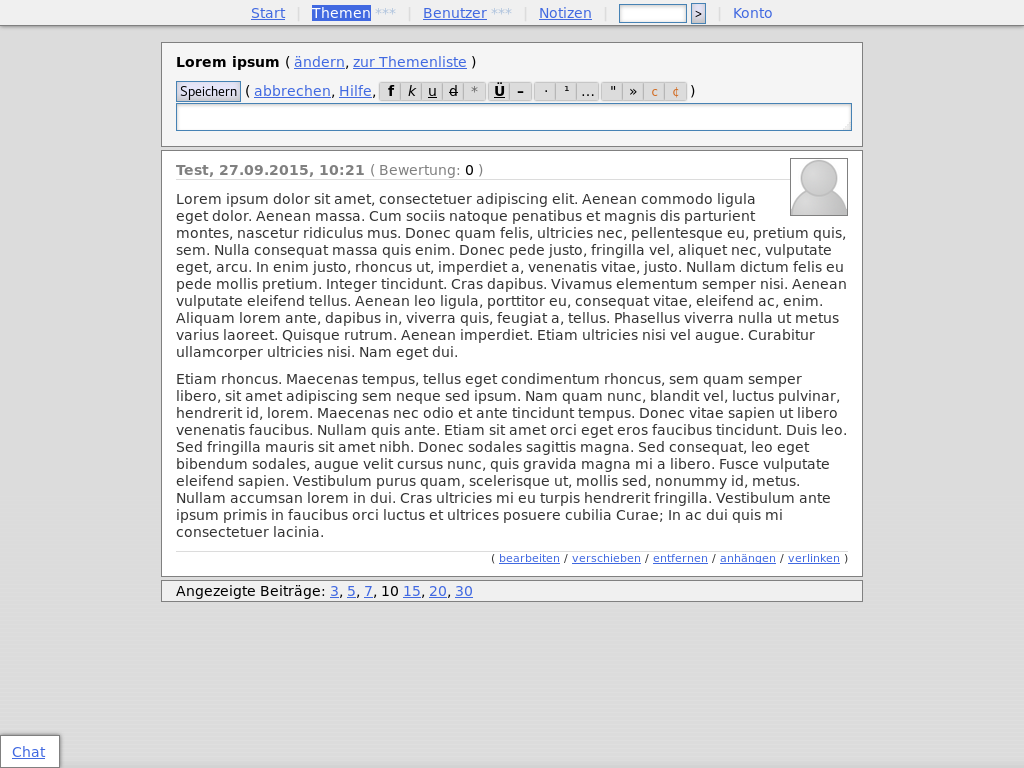
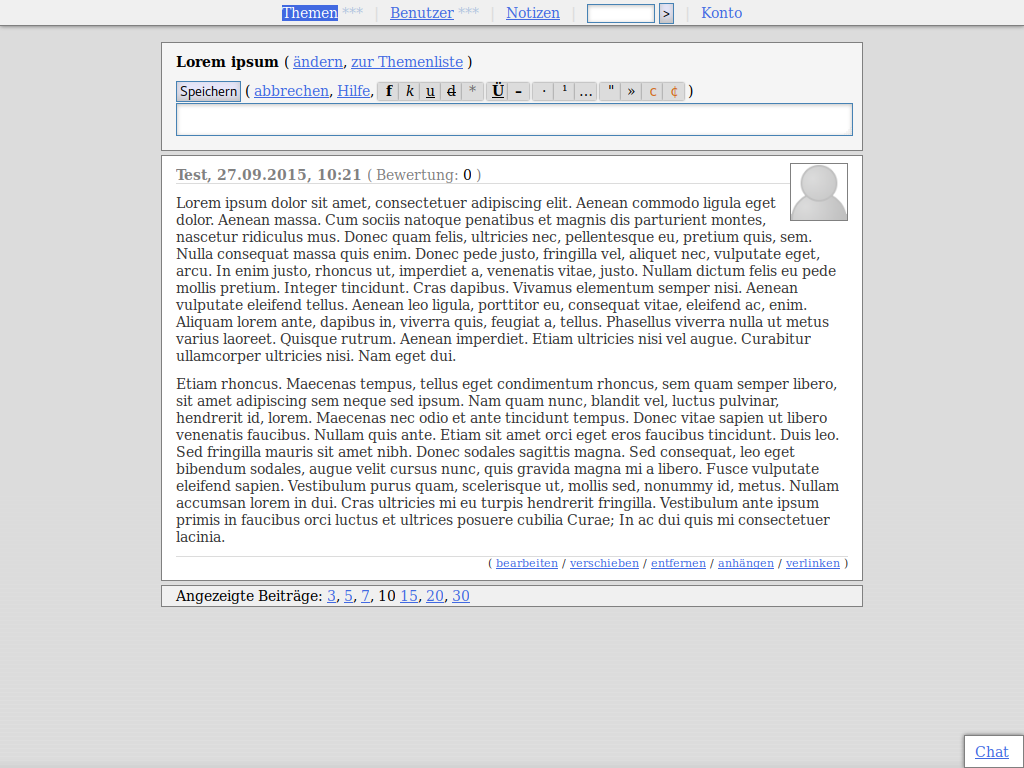
Chat-Button mit Chatuser-Liste jetzt rechts unten
Weil Browser wie der Firefox die URL-Vorschau beim überfahren von Links
üblicherweise ebenfalls Links unten anzeigen und dann sieht man die
Userliste nicht mehr - und der Chatbutton ist dann auch irgendwie
komisch versteckt.

diff --git a/public/theme/large.css b/public/theme/large.css
@@ -371,7 +371,7 @@ button:active {
 #chatbutton {
     position: fixed;
     bottom: 0;
-    left: 0;
+    right: 0;
     padding: .25em .75em .25em .5em;
 }
 #chatbutton p {
